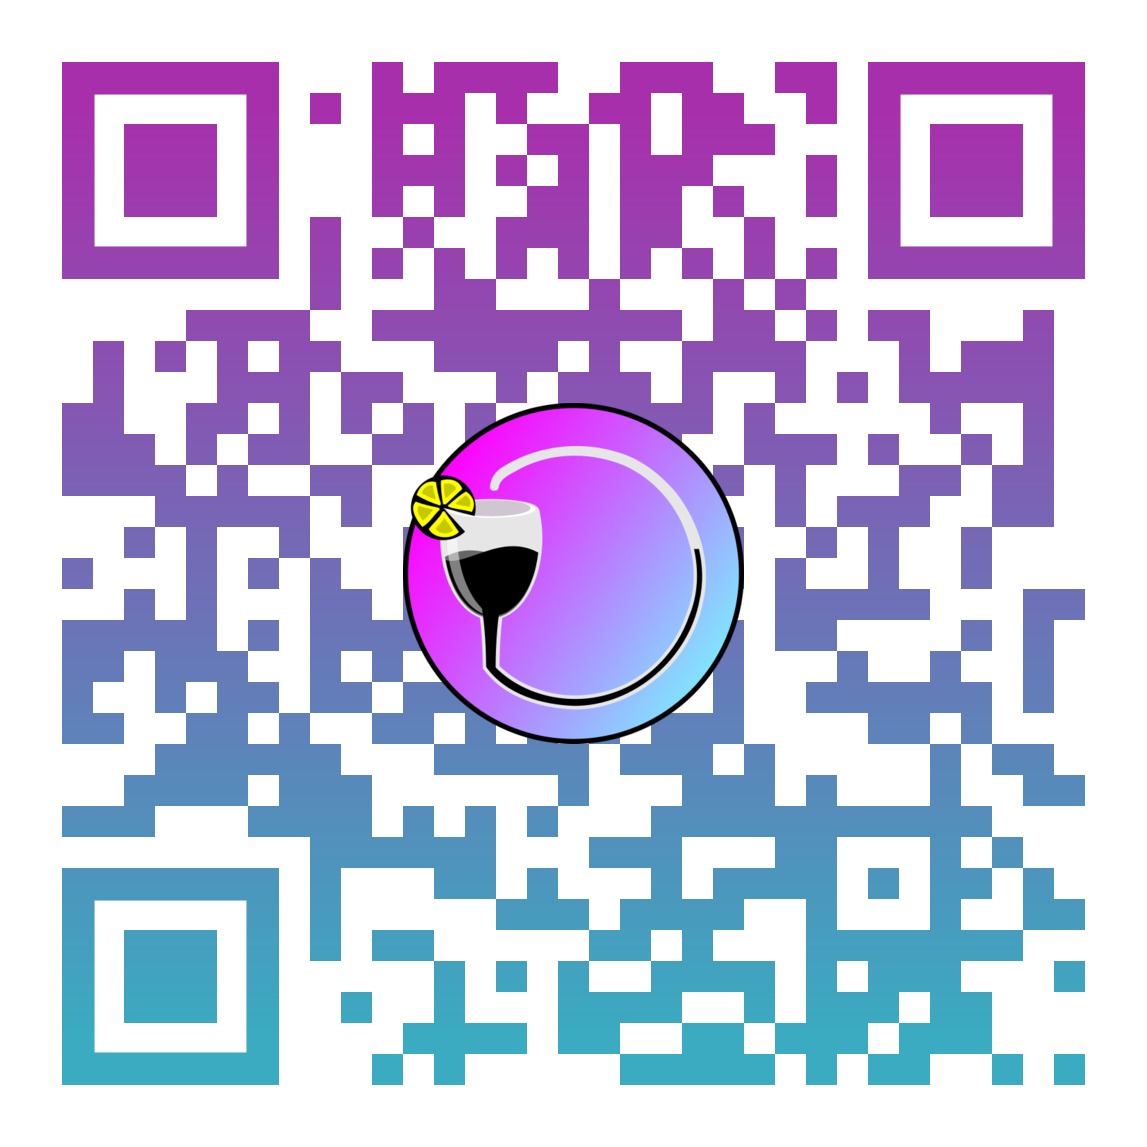
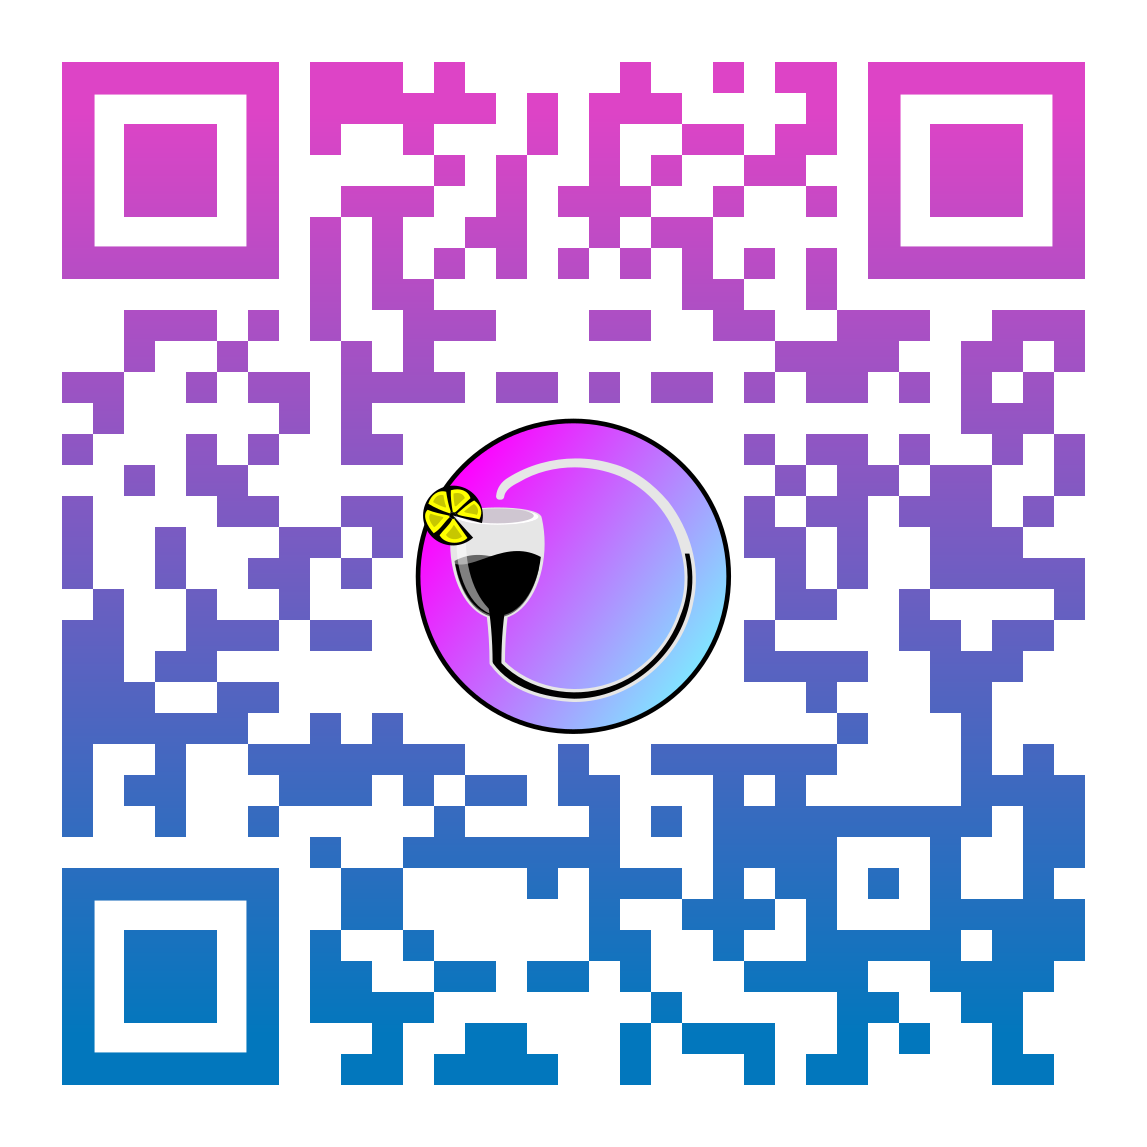
epist 1 slides up

diff --git a/FS1005_3.html b/FS1005_3.html
@@ -66,26 +66,29 @@
 			<section>
 				<p> To view the <b>video</b> just follow the links:
 					<br>
-					<a href="https://youtu.be/vpWNLZmziC8">👉<i>https://youtu.be/vpWNLZmziC8</i></a>
+					<a href="https://youtu.be/GJN5I42LPoU">👉<i>https://youtu.be/GJN5I42LPoU</i></a>
 				</p>
 
 				<img title="Scan me with your phone!" src="img/qr_fs1005_3yt.png" alt="if you don't see a QR code click the link" style="height: 340px; margin: 0 auto 4rem auto; background: transparent;" class="qr_code">
 					<br>
-				<a href="http://edibotopic.github.io/lecture-slides/FS1005_3.html?print-pdf" title="For your added conveniance">Click here for printable version👈</a>
 			
 			</section>
 
 			<section data-auto-animate>
 				<h2 style="color: white">The Omnivore's Dilemma</h2>
 
-				<img src="img/koala.jpg" title="koalas don't get stressed about food" alt="image of koala eating leaves" style="width: 80%; height: 80%;">
+				<img data-src="img/koala.jpg" title="koalas don't get stressed about food" alt="image of koala eating leaves" style="width: 50%; height: 50%;">
+
+				<p>Idea: the potential diversity of our diets creates a tension between <strong>neophilia 🍍</strong> and <strong>neophobia 💀</strong></p>
 
 			</section>
 
 			<section data-auto-animate>
 				<h2 style="color: white">The Omnivore's Dilemma</h2>
 
-				<img src="img/supermarket.jpg" alt="image of a supermarket" title="Fischler thinks we face a nutritional noise"  style="width: 80%; height: 80%">
+				<img data-src="img/supermarket.jpg" alt="image of a supermarket" title="Fischler thinks we face a nutritional noise"  style="width: 50%; height: 50%">
+
+				<p>Critics argue food technology <strong>confuses</strong> with an impossible search for the healthy 🏋♀ and unhealthy 🍭 </p>
 
 			</section>
 
@@ -99,25 +102,35 @@
 					<label for="both" style="color: white;"> Check box for a satisfying poison</label><br><br>
 					<input type="submit" value="Submit">
 				  </form>
+				  <br>
+				  <small>For critics like Pollan, the only safe bet is to <strong>stick with what we know (tradition)</strong></small>
 			</section>
 			
 			<section>
 				<h3 style="color: white;">The Doctrine of Signatures</h3>
-				<img src="img/eye.jpg" alt="image of carrot arranged in shape of an eye" title="How can we tell what's good for us?" width="80%" height="80%">
+				<img data-src="img/eye.jpg" alt="image of carrot arranged in shape of an eye" title="How can we tell what's good for us?" width="60%" height="60%">
+				<br>
+				<small>Is shape important? <strong>Yes</strong>. Can it guide dietary choice? <strong>Not really</strong>.<br>
+				DoS was an example of traditional know-how that few would now accept.</small>
 			</section>
 
-			<section>
+			<section data-background-iframe="https://youtube.com/embed/GJN5I42LPoU?start=105" data-background-interactive>
+				
+				<div style="background-color: rgba(0, 0, 0, 0.583); opacity: 70%;">
+					
 				<h3>Problems with DoS</h3>
+				
 				<ul>
-					<li><strong>Assumption: </strong>the world is made to serve us</li>
+					<li><strong>Assumption: </strong>the world is <i>designed</i> to serve us</li>
 					<br>
-					<li class="fragment fade-right"><strong>Scope:</strong> the theory has limited extension</li>
+					<li><strong>Scope:</strong> the theory has limited extension</li>
 					<br>
-					<li class="fragment fade-left"><strong>Easy-to-vary:</strong> DoS is highly subjective</li>
+					<li><strong>Easy-to-vary:</strong> DoS is highly subjective</li>
 				</ul>
 <br><br>
-				<small class="fragment fade-up">DoS is better understood as a <strong>mnemonic</strong> than a theory</small>
-
+				<small>DoS may be a good <strong>memory device</strong> but it cannot inform<br>
+				successful dietary interventions, like <strong>vitamin fortification</strong></small>
+			</div>
 			</section>
 
 			<section>
@@ -130,6 +143,8 @@
 					 In Defence of Food Science. <i>Gastronomica</i>, Summer, 76-84.   </small>
 			</section>
 
+			<section data-background-image="img/recipes.gif"></section>
+
 				<section>
 					<h3>Kinds of Knowledge</h3>
 	
@@ -138,45 +153,61 @@
 					<p class="fragment fade-up">Science generates <strong>declarative</strong> knowledge</p>
 	
 					<p class="fragment fade-up">A feature of this knowledge is its <strong>generalisability</strong></p>
+
+					<br>
+					<small class="fragment fade-up">Scientists must often know the <strong>how (process/experiment)</strong> and the <strong>why (cause/explanation)</strong></small>
 	
 				</section>
 
 				<section data-auto-animate>
 					<h3>Obstacles to Knowledge</h3>
 	
-					<img src="img/cautery.jpg" height="400">
+					<img data-src="img/cautery.jpg" height="400">
 	
 				</section>
 
 				<section data-auto-animate>
 					<h3>Obstacles to Knowledge</h3>
 	
-					<img src="img/cautery.jpg" height="400">
-					<img src="img/gaston.jpg" height="400">
+					<img data-src="img/cautery.jpg" height="400">
+					<img data-src="img/gaston.jpg" height="400">
+
+					<small><strong>Metaphor:</strong> thinking about the <i>unfamiliar</i> (meat searing) by analogy to the <i>familiar</i> (stopping bleeding)</small>
 	
 				</section>
 
 			<section data-auto-animate>
 				<h3>Maillard Browning (MB)</h3>
-				<img src="img/Maillard.jpg" height="400px">
-				<img src="img/maillard_bread.jpg" height="400px">
-			</section>
+				<img data-src="img/Maillard.jpg" height="400px">
+				<img data-src="img/maillard_bread.jpg" height="400px">
 
+			</section>
+			
 			<section data-auto-animate>
 				<h3>Maillard Browning (MB)</h3>
-				<img src="img/Maillard.jpg" height="400px">
-				<img src="img/maillard_health.png" height="400px">
+				<img data-src="img/Maillard.jpg" height="400px">
+				<img data-src="img/maillard_health.png" height="400px">
+				
+				<small><strong>Maillard browning:</strong> a chemical reaction involving <i>amino acids</i> and <i>reducing sugars</i></small>
 			</section>
 
-			<section>
+			<section data-background-iframe="https://www.youtube.com/embed/rhrQT_9OpC0" data-background-interactive>
+
+				<div style="background-color: rgba(0, 0, 0, 0.35); opacity: 60%;">
 				<h3>Searing and Sous Vide</h3>
 				<ul>
-					<li>MB is more advanced at high T values</li>
-					<li>MB occurs in sous vide but is less advanced </li>
-					<li>Sous vide and searing are often combined</li>
-					<li>Adding glucose or alkali may speed up reaction</li>
+					<li>MB is quicker at high <strong>temperature</strong></li>
+					<li>MB occurs in <strong>sous vide</strong> but is less advanced</li>
+					<li>Sous vide and searing can be <strong>combined</strong></li>
+					<li>Adding <strong>glucose</strong> or <strong>alkali</strong> speeds up reaction</li>
 
 				</ul>
+
+				<br><br>
+
+				<small>Click <i style="color: red; background-color: white;" class="fab fa-youtube"></i> on the background video to see more</small>
+				</div>
+	
 			</section>
 
 			<section>
@@ -198,22 +229,29 @@
 				</small>
 			</section>	
 
-			<section>
-				<img src="img/boneOrMoon.png" alt="A half cooked potato I made" title="Undercooked potato: more interesting than you'd think">
+			<section data-background-image="img/boneOrMoon.png">
+				<!-- <img src="img/boneOrMoon.png" alt="A half cooked potato I made" title="Undercooked potato: more interesting than you'd think"> -->
+					<blockquote style="background-color: rgba(0, 0, 0, 0.474); color: white;">Depending on how we cook/process food we can alter how it is physically broken down in the body
+						<blockquote class="fragment fade-in" style="background-color: rgba(0, 0, 0, 0.713); color: white;"">There were hints of this idea in the old Irish tradition of undercooking potatoes. Science extends the basic idea, making ot more general and precise</blockquote>
+					</blockquote>
+					<br>
+					<small class="fragment fade-up"><strong style="color: yellow;">Ideas are sometimes "out there" in the broader culture <br>
+					You should pay attention to them if you want to develop new things</strong></small>
 			</section>
 
 			<section>
 				<h3>Scientific Know-why</h3>
-				<img src="img/starch.png" width="60%" height="60%">
+				<img data-src="img/starch.png" width="60%" height="60%">
 
 			</section>	
 
 			<section>
 				<h3>Anti-science Rhetoric</h3>
 
-				<img src="img/chobini.png"  width="30%" height="30%">
+				<img data-src="img/chobini.png"  width="30%" height="30%">
 
 				<p><i>Appeals to <strong>"common sense"</strong> knowledge of food</i></p>
+				<small>Be careful of falling into the trap of undermining science while doing science!!!</small>
 
 			</section>	
 				<section>
@@ -222,7 +260,7 @@
 
 					<a href="mailto:shane.crowley@ucc.ie">shane.crowley@ucc.ie</p>
 					<a href="mailto:shane.crowley@ucc.ie">
-						<img alt="media not supported by your browser" title="Email me, or better POST ON PIAZZA" src="img/edibo_icon_wp.png" alt="edibotopic logo" style="height: 180px; margin: 0 auto 4rem auto; background: transparent;" class="logo">
+						<img alt="media not supported by your browser" title="Email me, or better POST ON PIAZZA" data-src="img/edibo_icon_wp.png" alt="edibotopic logo" style="height: 180px; margin: 0 auto 4rem auto; background: transparent;" class="logo">
 					</a>
 				</section>
 
@@ -236,8 +274,8 @@
 			Reveal.configure({ pdfSeparateFragments: false });
 			Reveal.initialize({
 				// for gh set controls to true and toggle chalkboard.js to true also
-				controls: false,
-				progress: false,
+				controls: true,
+				progress: true,
 				history: true,
 				center: true,
 				slideNumber: 'c',
@@ -308,7 +346,7 @@
 					{
 						title: 'About',
 						icon: '<i class="fa fa-info">',
-						content: '<p></p>'
+						content: '<p>Once the ontological complexity of food is recognised we can begin to appreciate the difficulties involved in choosing the right food. Some thinkers consider the dilemma this creates to be an important source of human anxiety. We can look at different ways of knowing about food as a way to alleviate this collective anxiety around diet, in terms of identifying what is healthy, ensuring a sustainable food supply and empowering us in our efforts to survive. There can be wisdom in traditional "know-how" even when it is not supported by scientific evidence; nonetheless, it is important to try to recognise what advantages the scientific approach can have other than being "more right". A key aspect of scientific findings is that they can be generalised; what is true of a particular system can often be extended to many others. Another aspect is their capacity to generate further questions and clear "epistemological obstacles" from our path; metaphors, for example, can be very seductive but they can also function as conversation stoppers. This lecture will set us up for next week when we will look into the sciences that food scientists appeal to in their work.</p>'
 
 					}
 					]

diff --git a/index.md b/index.md
@@ -16,7 +16,7 @@ Lecture#1: [Ontology I](http://edibotopic.github.io/lecture-slides/FS1005_1.html
 
 Lecture#2: [Ontology II](http://edibotopic.github.io/lecture-slides/FS1005_2.html)
 
-<!-- Lecture#3: [Epistemology I](http://edibotopic.github.io/lecture-slides/FS1005_3.html) -->
+Lecture#3: [Epistemology I](http://edibotopic.github.io/lecture-slides/FS1005_3.html)
 
 <!-- Lecture#4: [Epistemology II](http://edibotopic.github.io/lecture-slides/FS1005_4.html) -->
 
